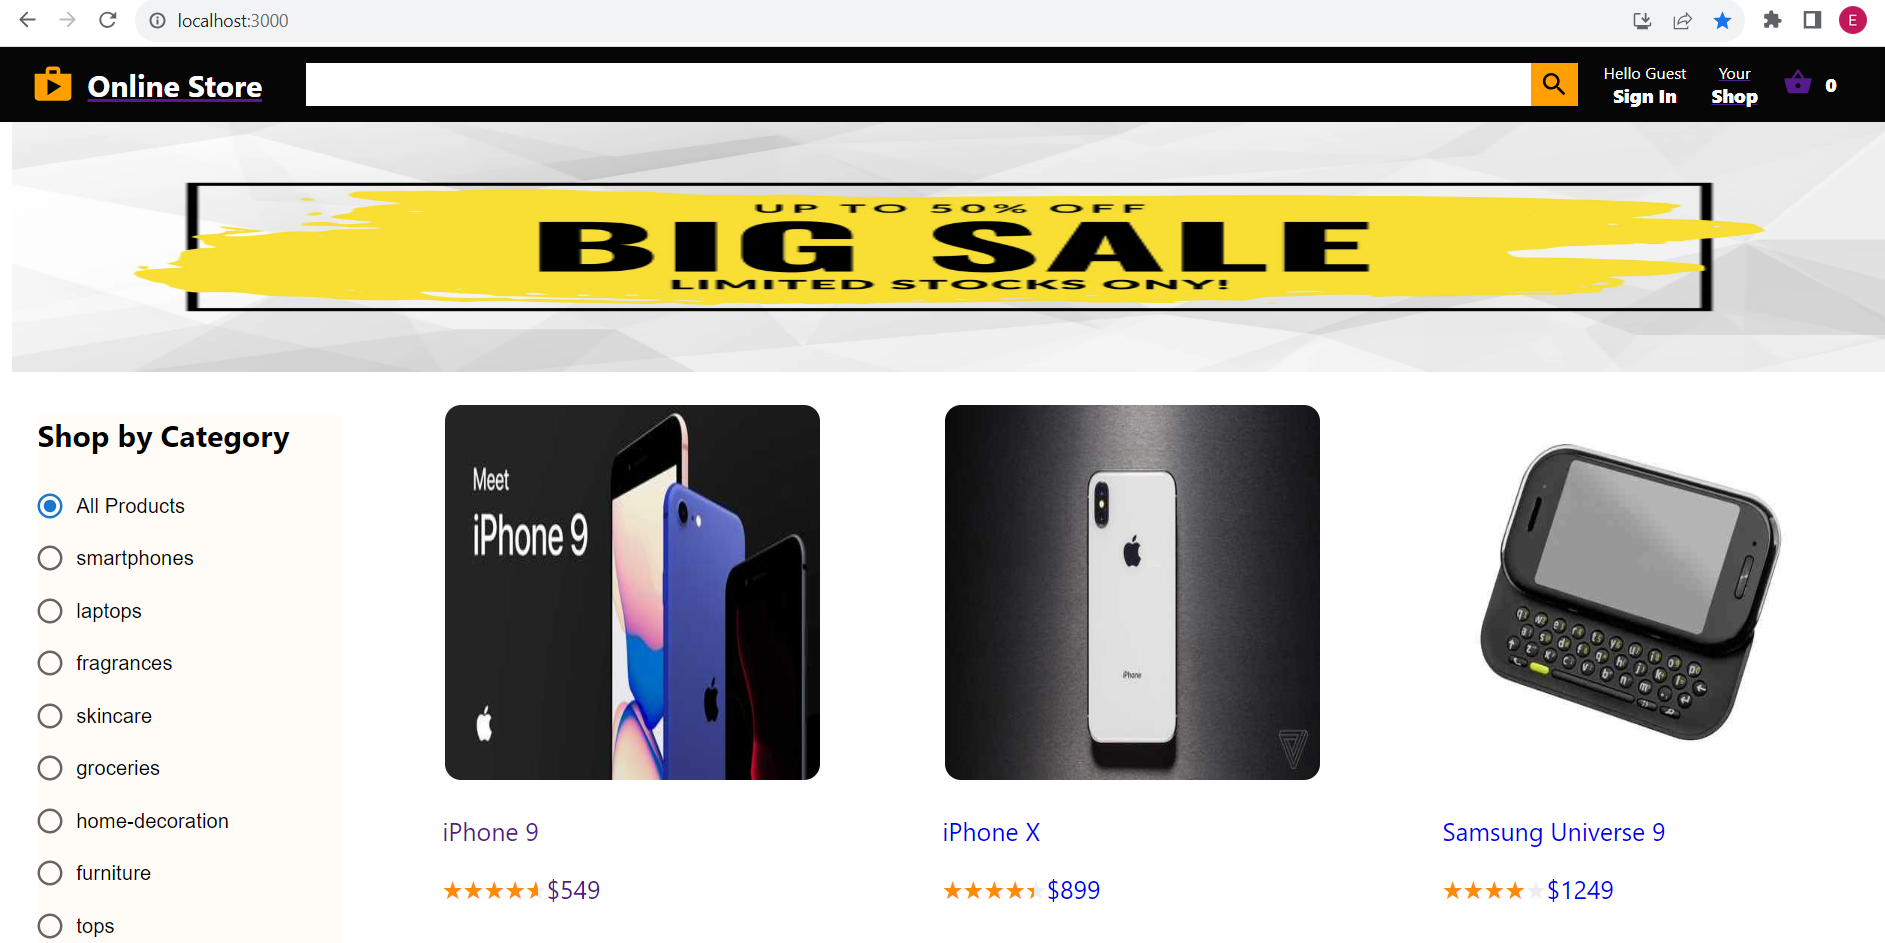
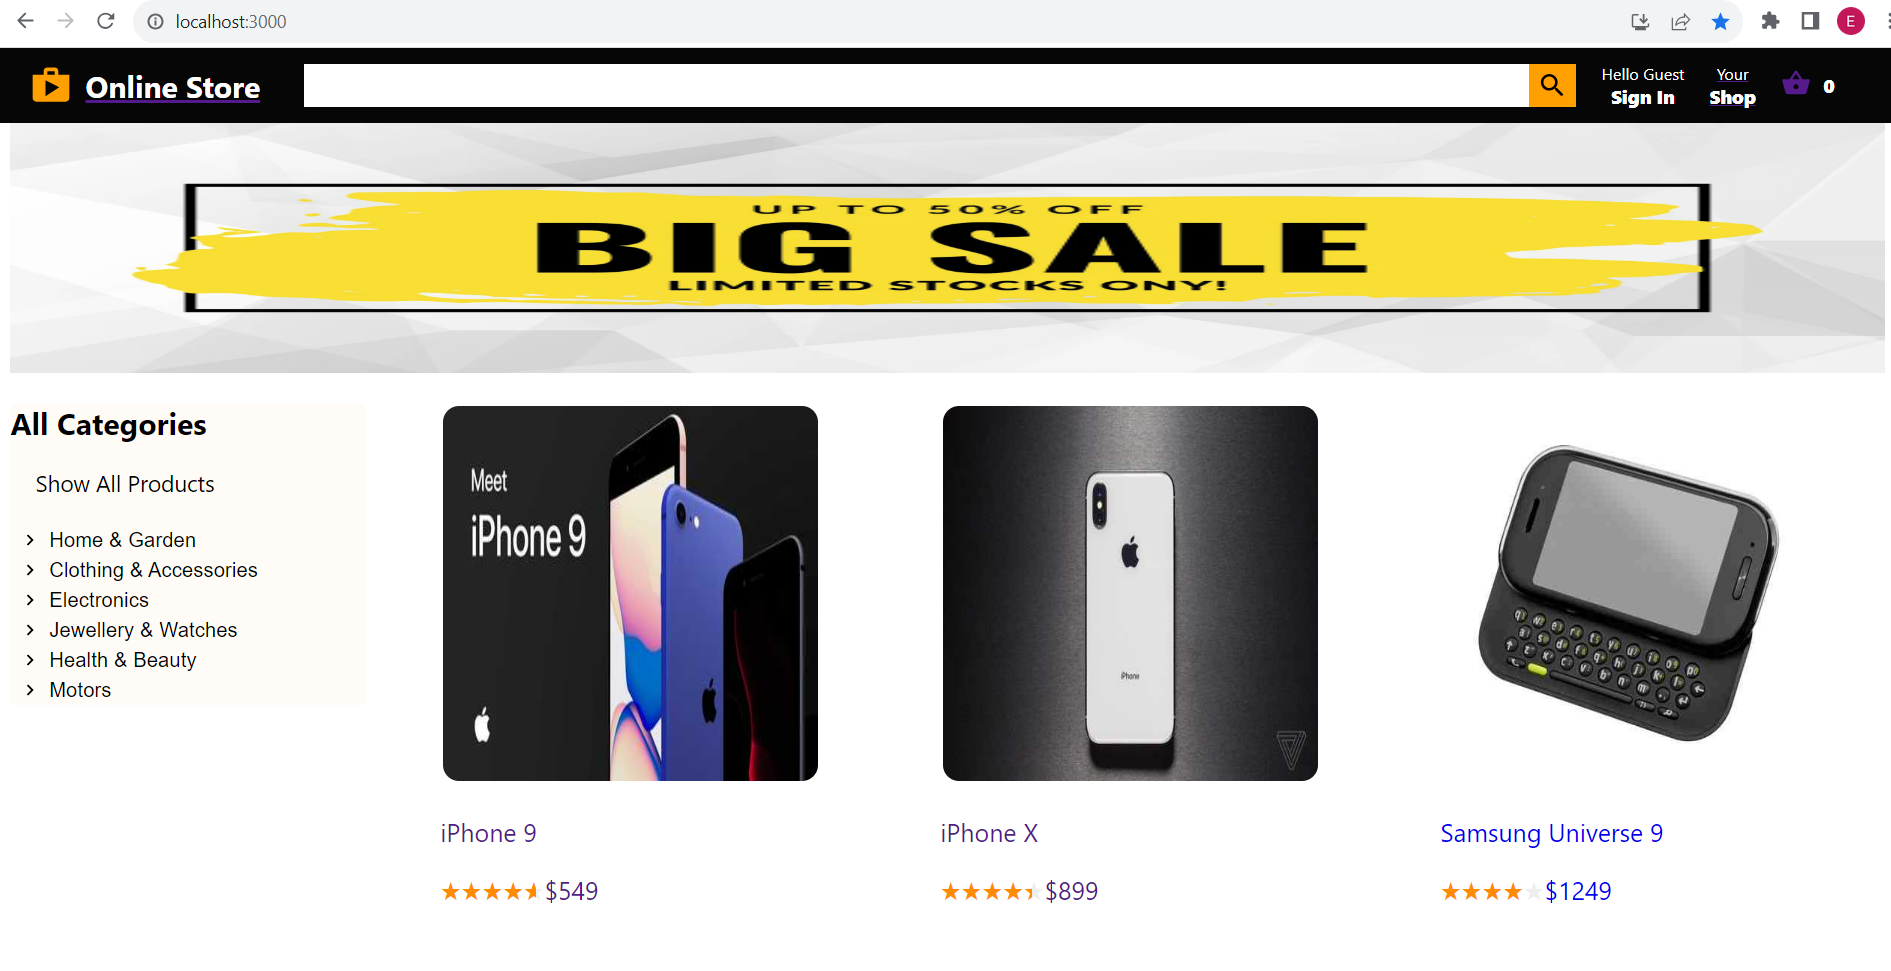
comm-2

diff --git a/src/store/components/ItemCatagory.js b/src/store/components/ItemCatagory.js
@@ -1,58 +1,97 @@
-import React from 'react';
-import Radio from '@mui/material/Radio';
-import RadioGroup from '@mui/material/RadioGroup';
-import FormControlLabel from '@mui/material/FormControlLabel';
-import FormControl from '@mui/material/FormControl';
-import FormLabel from '@mui/material/FormLabel';
-import { useSelector, useDispatch } from 'react-redux';
-import {selectedCategory,setCategory,setSearchProducts } from './myStoreReducerSlice'
-import { useNavigate } from "react-router-dom";
 import  './ItemCatagory.css'
+import React from 'react';
+import { useSelector, useDispatch } from 'react-redux';
+import {setCategory,setSearchProducts,getCurrentExpand,setCurrentExpand } from './myStoreReducerSlice'
+import { useNavigate } from "react-router-dom";
+import TreeView from '@mui/lab/TreeView';
+import ExpandMoreIcon from '@mui/icons-material/ExpandMore';
+import ChevronRightIcon from '@mui/icons-material/ChevronRight';
+import TreeItem from '@mui/lab/TreeItem';
+
+
+
 
 function ItemCatagory (){
 
-  const cccategory = useSelector(selectedCategory)
   const dispatch = useDispatch()
   const nav = useNavigate()
+  const currExp = useSelector(getCurrentExpand)
+
+  const setID =(id)=>{
+    if (isNaN(id)){
+      nav(`/${id}`)
+      dispatch(setCategory(id))
+      dispatch(setSearchProducts(''))
+    }else {
+      dispatch(setCurrentExpand([id]))
+    }
+  }
+
+  const showALL =()=>{
+    nav('/ALL')
+    dispatch(setCategory('ALL'))
+    dispatch(setCurrentExpand('clear'))
+  }
 
   return(
     <div className='Item__Catagory'>
-      <h2 >Shop by Category</h2>
-      <FormControl>
-      <FormLabel id="demo-radio-buttons-group-label"></FormLabel>
-      <RadioGroup
-        aria-labelledby="demo-radio-buttons-group-label"
-        value= {cccategory}
-        name="radio-buttons-group"
-        onChange={(e,value)=>
-          { nav(`/${value}`);
-            dispatch(setCategory(value));
-            dispatch(setSearchProducts(''))
-          }}
+    
+      <h2 >All Categories</h2>
+      <span className='show__all' onClick={showALL}>Show All Products</span>
+
+      <TreeView className='tree__view'
+        aria-label="multi-select"
+        defaultCollapseIcon={<ExpandMoreIcon />}
+        defaultExpandIcon={<ChevronRightIcon />}
+        onNodeSelect={(e,value)=>{setID(value)}}
+        expanded={currExp}
       >
-       <FormControlLabel value="ALL" control={<Radio />} label="All Products" />
-       <FormControlLabel value="smartphones" control={<Radio />} label="smartphones" />
-       <FormControlLabel value="laptops" control={<Radio />} label="laptops" />
-       <FormControlLabel value="fragrances" control={<Radio />} label="fragrances" />
-       <FormControlLabel value="skincare" control={<Radio />} label="skincare" />
-       <FormControlLabel value="groceries" control={<Radio />} label="groceries" />
-       <FormControlLabel value="home-decoration" control={<Radio />} label="home-decoration" />
-       <FormControlLabel value="furniture" control={<Radio />} label="furniture" />
-       <FormControlLabel value="tops" control={<Radio />} label="tops" />
-       <FormControlLabel value="womens-dresses" control={<Radio />} label="womens-dresses" />
-       <FormControlLabel value="womens-shoes" control={<Radio />} label="womens-shoes" />
-       <FormControlLabel value="mens-shirts" control={<Radio />} label="mens-shirts" />
-       <FormControlLabel value="mens-shoes" control={<Radio />} label="mens-shoes" />
-       <FormControlLabel value="mens-watches" control={<Radio />} label="mens-watches" />
-       <FormControlLabel value="womens-watches" control={<Radio />} label="womens-watches" />
-       <FormControlLabel value="womens-bags" control={<Radio />} label="womens-bags" />
-       <FormControlLabel value="womens-jewellery" control={<Radio />} label="womens-jewellery" />
-       <FormControlLabel value="sunglasses" control={<Radio />} label="sunglasses" />
-       <FormControlLabel value="automotive" control={<Radio />} label="automotive" />
-       <FormControlLabel value="motorcycle" control={<Radio />} label="motorcycle" />
-       <FormControlLabel value="lighting" control={<Radio />} label="lighting" />
-      </RadioGroup>
-      </FormControl>
+        <br />
+        <TreeItem nodeId="1"  label="Home & Garden" >
+          <TreeItem nodeId="furniture" label="Furniture" />
+          <TreeItem nodeId="lighting" label="Lighting" />
+          <TreeItem nodeId="home-decoration" label="Home-decoration" />
+        </TreeItem>
+        
+        <TreeItem nodeId="2" label="Clothing & Accessories">
+          <TreeItem nodeId="3" label="Men's">
+            <TreeItem nodeId="mens-shirts" label="Mens-shirts" />
+            <TreeItem nodeId="mens-shoes" label="Mens-shoes" />
+          </TreeItem>
+
+          <TreeItem nodeId="4" label="Women's">
+            <TreeItem nodeId="tops" label="Womens-tops" />
+            <TreeItem nodeId="womens-dresses" label="Womens-dresses" />
+            <TreeItem nodeId="womens-shoes" label="Womens-shoes" />
+            <TreeItem nodeId="womens-bags" label="Womens-bags" />
+          </TreeItem>
+          <TreeItem nodeId="5" label="Accessories">
+            <TreeItem nodeId="sunglasses" label="Sunglasses" />
+          </TreeItem>
+        </TreeItem>
+
+        <TreeItem nodeId="6" label="Electronics">
+          <TreeItem nodeId="smartphones" label="Smartphones" />
+          <TreeItem nodeId="laptops" label="Laptops" />
+        </TreeItem>
+
+        <TreeItem nodeId="7" label="Jewellery & Watches">
+          <TreeItem nodeId="mens-watches" label="Mens Watches" />
+          <TreeItem nodeId="womens-watches" label="Womens Watches" />
+          <TreeItem nodeId="womens-jewellery" label="Jewellery" />
+        </TreeItem>
+
+        <TreeItem nodeId="8" label="Health & Beauty">
+          <TreeItem nodeId="groceries" label="Groceries" />
+          <TreeItem nodeId="fragrances" label="Fragrances" />
+          <TreeItem nodeId="skincare" label="Skincare" />
+        </TreeItem>
+
+        <TreeItem nodeId="9" label="Motors">
+          <TreeItem nodeId="automotive" label="Automotive" />
+          <TreeItem nodeId="motorcycle" label="Motorcycle" />
+        </TreeItem>
+      </TreeView>
     </div>
   )
 }

diff --git a/src/store/mainpage/Header.js b/src/store/mainpage/Header.js
@@ -4,7 +4,7 @@ import ShopIcon from '@mui/icons-material/Shop';
 import SearchIcon from '@mui/icons-material/Search';
 import { Link } from 'react-router-dom';
 import { useSelector,useDispatch  } from 'react-redux';
-import {totalNumberOfProducts,setCategory,setSearchProducts,getsearchResults } from '../components/myStoreReducerSlice'
+import {totalNumberOfProducts,setCategory,setSearchProducts,setCurrentExpand } from '../components/myStoreReducerSlice'
 import { useState } from 'react';
 
 function Header (){
@@ -17,7 +17,10 @@ function Header (){
 
   return(
     <div className="Header">
-      <Link to = '/' onClick={()=>dispatch(setCategory('ALL'))}>
+      <Link to = '/' onClick={()=>
+        {dispatch(setCategory('ALL'));
+        dispatch(setCurrentExpand('clear'));}
+        }>
       <div className="header__logo">
         <ShopIcon className='header__logoImage' fontSize='large' 
         />
@@ -27,8 +30,11 @@ function Header (){
 
       <div className="header__search">
         <input type="text" className='header__searchInput ' value={currText} onChange={(e)=>setText(e.target.value)}/>
-        <SearchIcon className='header__searchIcon ' onClick={()=>{dispatch(setSearchProducts(currText));
-          setText('');dispatch(setCategory('ALL'))}}/>
+        <SearchIcon className='header__searchIcon ' onClick={()=>
+        { dispatch(setSearchProducts(currText));
+          setText('');dispatch(setCategory('ALL'));
+          dispatch(setCurrentExpand('clear'));
+        }}/>
       </div>
 
       <div className="header__nav">

diff --git a/src/store/components/myStoreReducerSlice.js b/src/store/components/myStoreReducerSlice.js
@@ -7,7 +7,8 @@ export const myStoreReducerSlice = createSlice({
   initialState:{
     ShoppingCartProducts: [],
     currentCategory: 'ALL',
-    searchResult: ''
+    searchResult: '',
+    currentExpand: [],
   },
 
   reducers:{
@@ -47,11 +48,19 @@ export const myStoreReducerSlice = createSlice({
 
     setSearchProducts:(state, action) =>{
       state.searchResult = action.payload
+    },
+
+    setCurrentExpand:(state,action)=>{
+      if (action.payload === 'clear'){
+        state.currentExpand = []
+      }else {
+      state.currentExpand = state.currentExpand.concat(action.payload)
+      }
     }
   }
 })
 
-export const {addToCart, removeFromCart,setProductAmount,setCategory,setSearchProducts} = myStoreReducerSlice.actions
+export const {addToCart, removeFromCart,setProductAmount,setCategory,setSearchProducts,setCurrentExpand} = myStoreReducerSlice.actions
 
 export const numberofDiffProductsinCart = (state) =>state.eeeshop.ShoppingCartProducts.length
 export const productArrayinCart = (state) =>state.eeeshop.ShoppingCartProducts
@@ -59,5 +68,6 @@ export const totalNumberOfProducts = (state) => state.eeeshop.ShoppingCartProduc
 export const totalPrice = (state)=>state.eeeshop.ShoppingCartProducts.reduce((b,a)=>b + a.productamount * a.product.price,0)
 export const selectedCategory = (state)=>state.eeeshop.currentCategory
 export const getsearchResults = (state)=>state.eeeshop.searchResult
+export const getCurrentExpand = (state)=>state.eeeshop.currentExpand
 
 export default myStoreReducerSlice.reducer

diff --git a/src/store/components/ItemCatagory.css b/src/store/components/ItemCatagory.css
@@ -1,5 +1,15 @@
 .Item__Catagory{
-  margin: 30px;
+  margin: 10px;
   text-align: left;
   background-color: rgb(255, 252, 248);
+}
+.show__all{
+  margin: 20px 10px 20px 20px;
+  font-size: 18px;
+  
+}
+.show__all:hover{
+
+  cursor: pointer;
+  background-color: rgb(248, 237, 222);
 }
